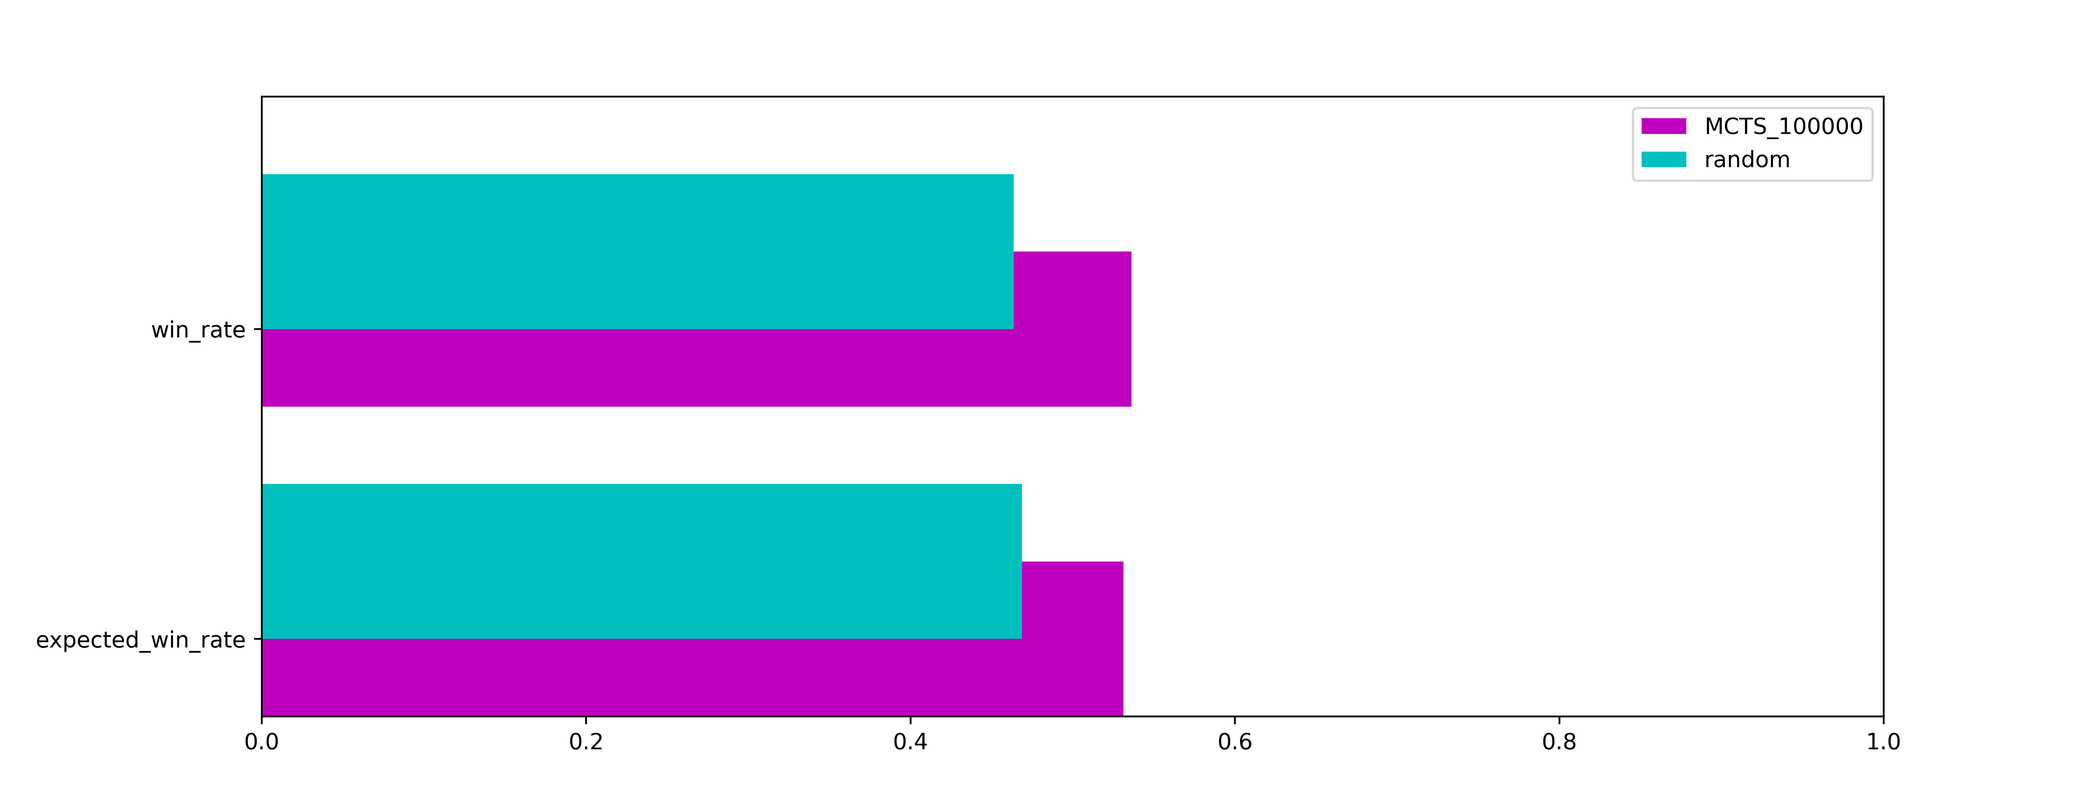
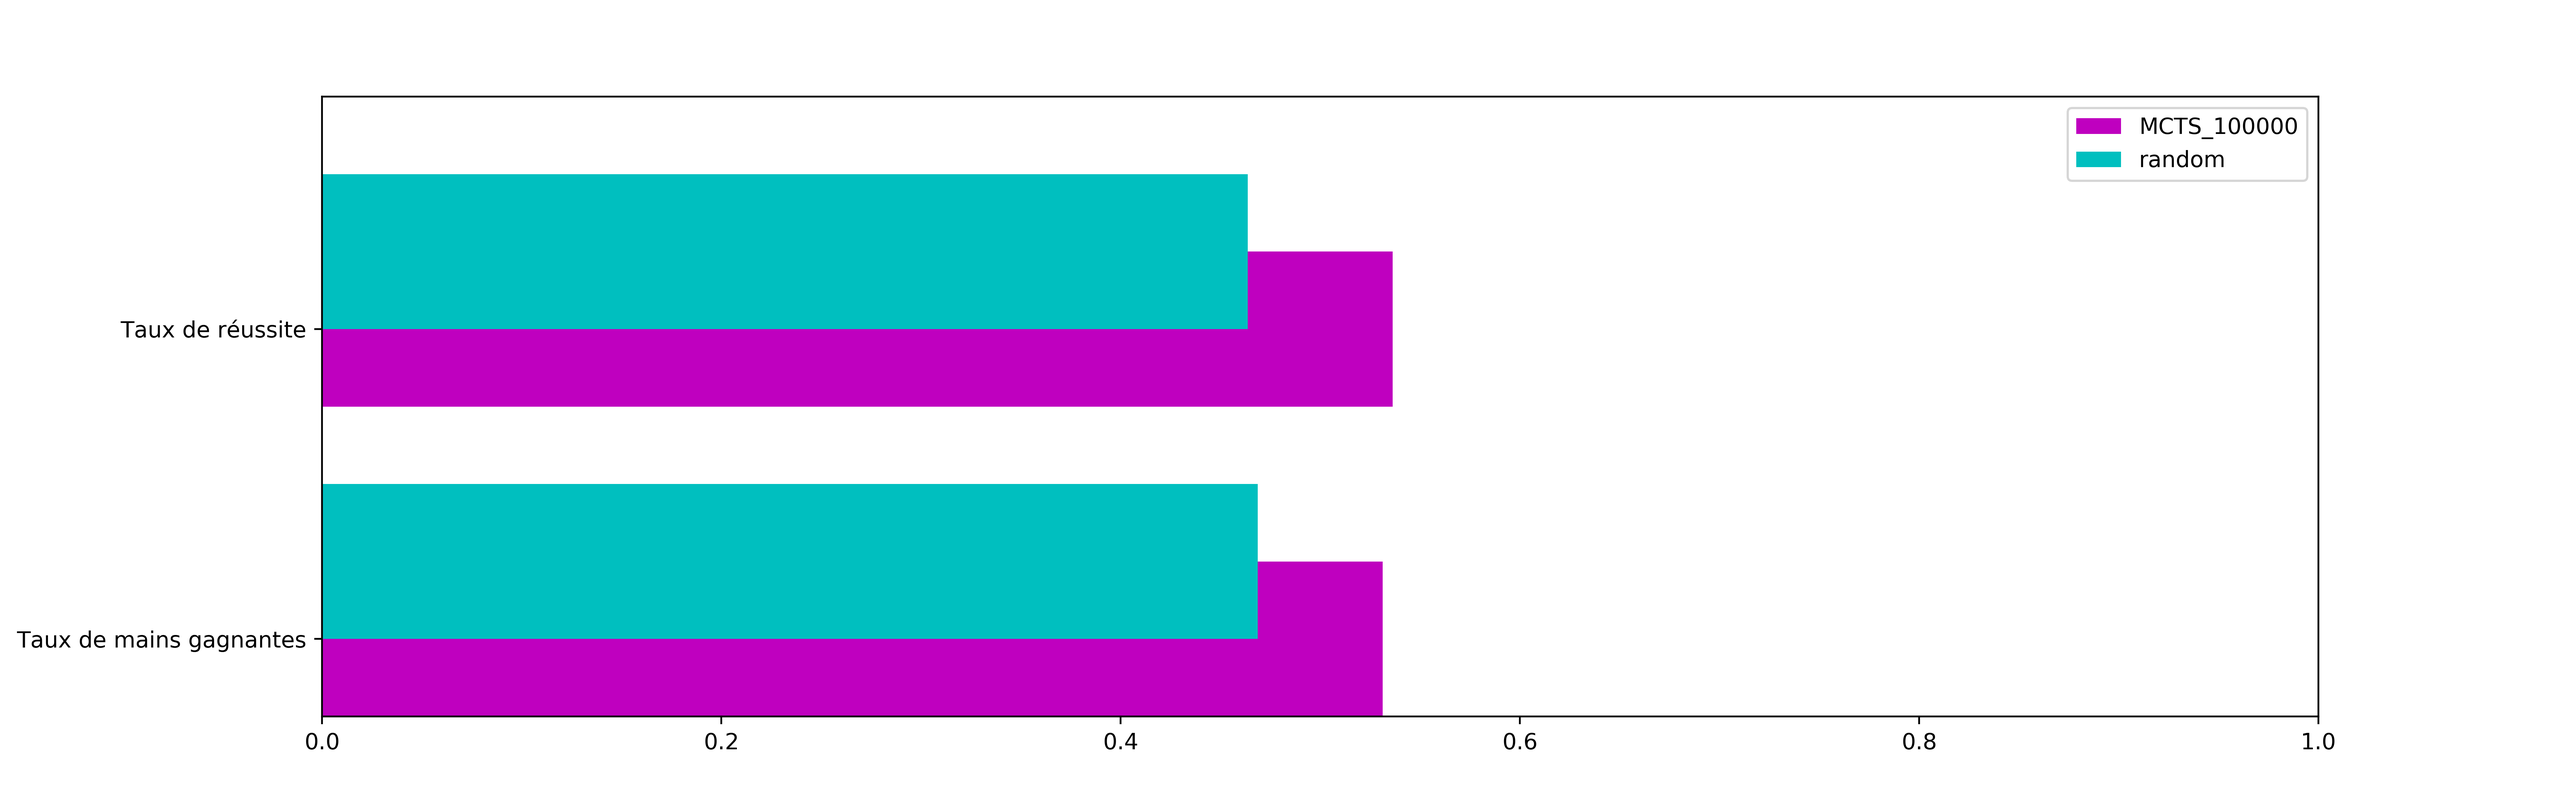
figures

diff --git a/PythonFiles/__main__.py b/PythonFiles/__main__.py
@@ -24,7 +24,7 @@ def load_data(TH_game_name: str):
             data = pd.read_csv(data_directory + filename)
             method_data[method_name] = get_global_data(data)
 
-            print(method_name, method_data[method_name][["skill_average", "skill balance", "efficiency", ]], '\n', sep="\n")
+            # print(method_name, method_data[method_name][["skill_average", "skill balance", "efficiency", ]], '\n', sep="\n")
     return method_data
 
 
@@ -60,27 +60,27 @@ def get_global_data(data):
 
     new_data = pd.DataFrame(columns=data.columns.to_list())
     new_data = new_data.append({
-        "win_rate": data["win_rate"].mean(),
-        "expected_win_rate": expected_win_rate,
-        "successful_win_rate": successful_win_rate,
-        "successful_loss_rate": successful_loss_rate,
-        "bluff_rate": bluff_rate,
-        "skill_average": skill_average,
-        "skill balance": skill_balance,
-        "efficiency": skill_average * skill_balance,
-        "gains": data["gains"].sum(),
-        "loss": data["loss"].sum(),
-        "nb_hands": data["nb_hands"].sum(),
-        "elapse_time [s]": data["elapse_time [s]"].sum()
+        "Taux de réussite": data["win_rate"].mean(),
+        "Taux de mains gagnantes": expected_win_rate,
+        "Taux de victoires réussites": successful_win_rate,
+        "Taux de défaites réussites": successful_loss_rate,
+        "Taux de bluff": bluff_rate,
+        "Performance moyenne": skill_average,
+        "Équilibre des capacités": skill_balance,
+        "Efficacité": skill_average * skill_balance,
+        "Gains": data["gains"].sum(),
+        "Pertes": data["loss"].sum(),
+        "Nombre de mains": data["nb_hands"].sum(),
+        "Durée [s]": data["elapse_time [s]"].sum()
     }, ignore_index=True).iloc[0]
 
     return new_data
 
 
 def plot_data(method_data: dict):
-    other_stats = ["win_rate", "expected_win_rate", ]
-    base_stats = ["successful_win_rate", "successful_loss_rate", "bluff_rate", ]
-    power_stats = ["skill_average", "skill balance", "efficiency", ]
+    other_stats = ["Taux de réussite", "Taux de mains gagnantes", ]
+    base_stats = ["Taux de victoires réussites", "Taux de défaites réussites", "Taux de bluff", ]
+    power_stats = ["Performance moyenne", "Équilibre des capacités", "Efficacité", ]
 
     stats: dict = {
         "other stats": other_stats,
@@ -89,7 +89,7 @@ def plot_data(method_data: dict):
     }
 
     for sts_name, sts in stats.items():
-        fig = plt.figure(figsize=(13, 5))
+        fig = plt.figure(figsize=(16, 5))
         for i, (mth, data) in enumerate(method_data.items()):
             print(mth, data[sts], '\n', sep='\n')
             data[sts].sort_index().plot.barh(alpha=1.0, label=mth,
